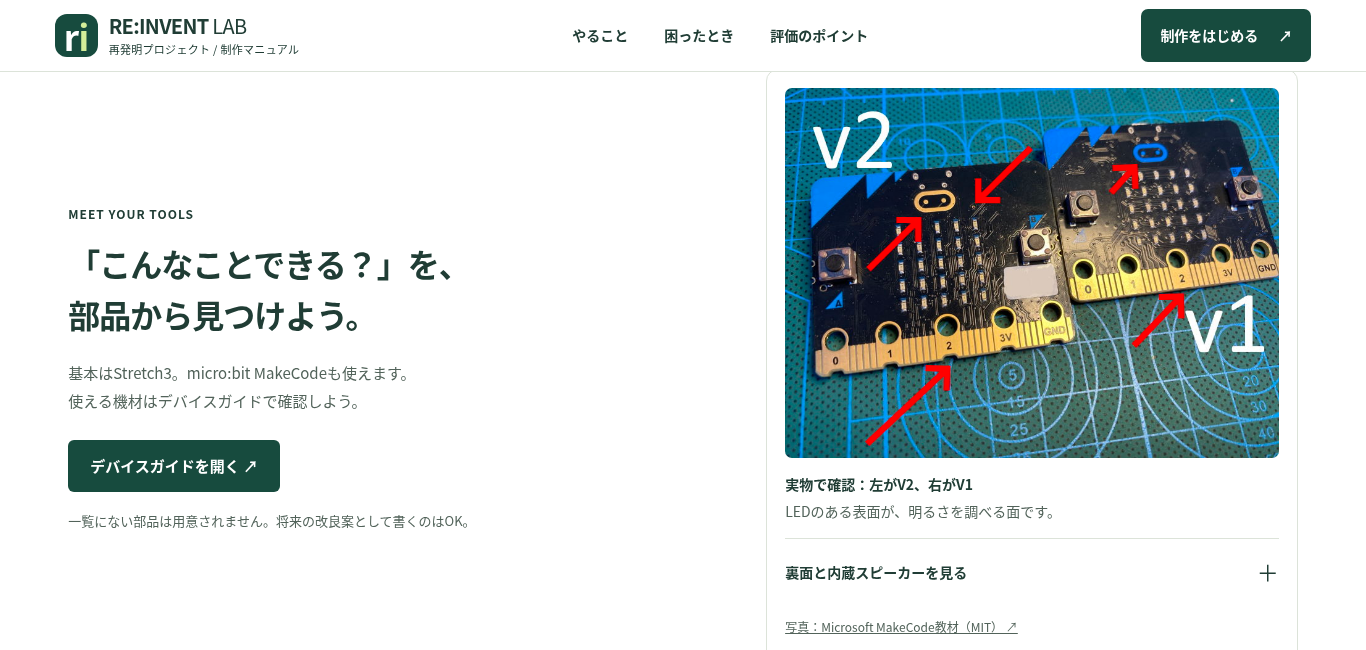
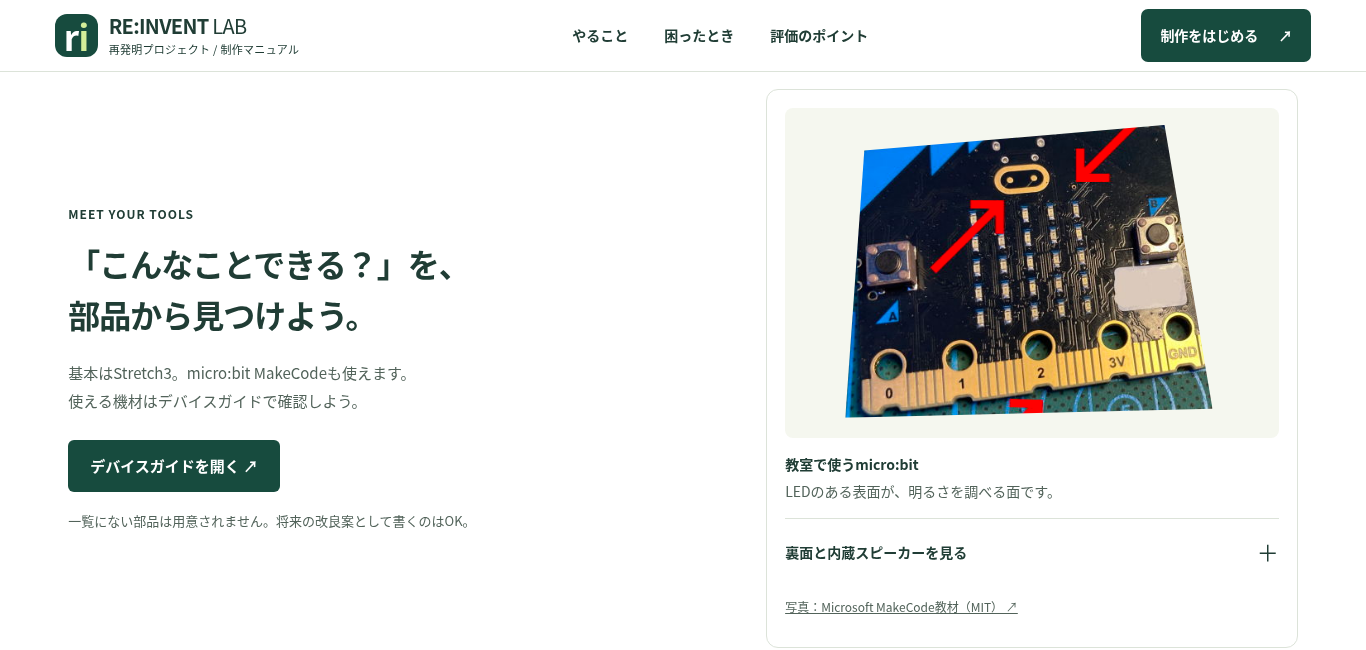
Show only classroom microbit board and remove version labels

diff --git a/index.html b/index.html
@@ -10,7 +10,7 @@
 <button class="step-card" data-step="3"><div class="card-top"><span>STEP 04</span><span>↗</span></div><img class="step-illustration" src="assets/step-improve.png" alt="条件を変えて試し、結果を記録する" loading="lazy"><h3>試して、よくする</h3><p>本当に困りごとを解決できる？<br>結果を比べ、改良しよう。</p><div class="card-footer">残すもの <b>動作動画・実験の記録</b></div></button>
 <button class="step-card" data-step="4"><div class="card-top"><span>STEP 05</span><span>↗</span></div><img class="step-illustration" src="assets/step-analyze.png" alt="試作品の結果や部品代を比較して考察する" loading="lazy"><h3>製品の価値を整理する</h3><p>役立つ理由と、残る課題は？<br>部品代も確かめよう。</p><div class="card-footer">残すもの <b>考察・費用の概算</b></div></button>
 <button class="step-card" data-step="5"><div class="card-top"><span>STEP 06</span><span>↗</span></div><img class="step-illustration" src="assets/step-present.png" alt="図と動作動画を使って製品を発表する" loading="lazy"><h3>伝わる発表にする</h3><p>どんな人の、何が変わる？<br>図と動画で製品を伝えよう。</p><div class="card-footer">残すもの <b>発表スライド</b></div></button></div></section>
-<section class="device-section section"><div><div class="eyebrow">MEET YOUR TOOLS</div><h2>「こんなことできる？」を、<br>部品から見つけよう。</h2><p>基本はStretch3。micro:bit MakeCodeも使えます。<br>使える機材はデバイスガイドで確認しよう。</p><a class="button primary" href="https://playa2021git.github.io/reinvent-device-guide/" target="_blank" rel="noopener">デバイスガイドを開く ↗</a><small class="device-note">一覧にない部品は用意されません。将来の改良案として書くのはOK。</small></div><figure class="real-device"><img src="assets/microbit-v2-front.jpg" alt="micro:bitの実物比較写真。左がV2、右がV1。表面に5×5のLEDとA・Bボタンがある" loading="lazy"><figcaption><b>実物で確認：左がV2、右がV1</b><span>LEDのある表面が、明るさを調べる面です。</span></figcaption><details><summary>裏面と内蔵スピーカーを見る<span>＋</span></summary><img src="assets/microbit-v2-back.jpg" alt="裏面の実物比較写真。左のV2には中央の銀色の内蔵スピーカーがあり、右のV1にはない" loading="lazy"><p>V2には内蔵スピーカーがあります。引き出し警報の例はV2を使います。表面のLEDを上向きに置きますが、音が出る部品は裏面です。</p></details><a class="photo-credit" href="https://github.com/microsoft/pxt-microbit/tree/master/docs/static/v2" target="_blank" rel="noopener">写真：Microsoft MakeCode教材（MIT） ↗</a></figure></section>
+<section class="device-section section"><div><div class="eyebrow">MEET YOUR TOOLS</div><h2>「こんなことできる？」を、<br>部品から見つけよう。</h2><p>基本はStretch3。micro:bit MakeCodeも使えます。<br>使える機材はデバイスガイドで確認しよう。</p><a class="button primary" href="https://playa2021git.github.io/reinvent-device-guide/" target="_blank" rel="noopener">デバイスガイドを開く ↗</a><small class="device-note">一覧にない部品は用意されません。将来の改良案として書くのはOK。</small></div><figure class="real-device"><svg class="board-photo" viewBox="22 112 465 370" role="img" aria-labelledby="front-photo-title"><title id="front-photo-title">教室で使うmicro:bitの表面。5×5のLED、A・Bボタン、金色のタッチロゴ</title><defs><clipPath id="front-board-crop"><polygon points="52,149 415,118 473,461 29,472"/></clipPath></defs><image href="assets/microbit-v2-front.jpg" width="800" height="600" clip-path="url(#front-board-crop)"/></svg><figcaption><b>教室で使うmicro:bit</b><span>LEDのある表面が、明るさを調べる面です。</span></figcaption><details><summary>裏面と内蔵スピーカーを見る<span>＋</span></summary><svg class="board-photo" viewBox="29 177 436 389" role="img" aria-labelledby="back-photo-title"><title id="back-photo-title">micro:bitの裏面。中央に銀色の内蔵スピーカーがある</title><defs><clipPath id="back-board-crop"><polygon points="51,219 385,183 452,506 73,554"/></clipPath></defs><image href="assets/microbit-v2-back.jpg" width="800" height="600" clip-path="url(#back-board-crop)"/></svg><p>本体には内蔵スピーカーがあります。引き出し警報の例は、このスピーカーで音を鳴らします。表面のLEDを上向きに置きますが、音が出る部品は裏面です。</p></details><a class="photo-credit" href="https://github.com/microsoft/pxt-microbit/tree/master/docs/static/v2" target="_blank" rel="noopener">写真：Microsoft MakeCode教材（MIT） ↗</a></figure></section>
 
 <section id="workbench" class="section workbench">
 <div class="section-heading"><div><div class="eyebrow">FROM AN IDEA TO A WORKING PRODUCT</div><h2>製品のしくみを、ひとつずつ。</h2></div><p>「何を感じて、どう動く？」を決めると、<br>必要な部品とプログラムが見えてきます。</p></div>
@@ -21,7 +21,7 @@
 </section>
 <section id="drawing" class="section drawing-section"><div class="section-heading"><div><div class="eyebrow">SHOW THE IDEA, NOT JUST THE SHAPE</div><h2>絵のうまさより、「使い方」が伝わるか。</h2></div><p>同じ製品でも、描く情報で伝わり方が変わります。<br>手描きでも、AIで作っても、確認することは同じ。</p></div>
 <div class="drawing-grid"><article class="drawing-example unclear"><div class="drawing-title"><span>情報が足りない例</span><b>これ、何に使うの？</b></div><svg viewBox="0 0 500 220" role="img" aria-label="箱と光だけで、設置場所や使い方が不明な製品図"><rect x="177" y="58" width="145" height="108" rx="20" fill="#c9d5c7" stroke="#496350" stroke-width="3"/><circle cx="250" cy="108" r="20" fill="#d6ed9c"/><path d="M195 170h110" stroke="#496350" stroke-width="3"/><text x="352" y="75" font-size="38" fill="#7c897a">?</text><text x="110" y="150" font-size="26" fill="#7c897a">?</text><text x="250" y="205" text-anchor="middle" font-size="16" fill="#52635a">「便利なお知らせ装置」</text></svg><ul><li>誰が・どこで使うか分からない</li><li>何をきっかけに、どう反応するか不明</li><li>大きさや電源が分からない</li></ul></article>
-<article class="drawing-example clear"><div class="drawing-title"><span>伝わる例</span><b>弟が引き出しを開けると、警報音！</b></div><img class="alarm-scene" src="assets/drawer-alarm.png" alt="お姉ちゃんが不在の明るい部屋で、私服の小学生の弟が立ったまま、文房具と漫画の入った学習机の引き出しを勝手に開ける。引き出しの中にLED・明るさセンサ面を上向きに置いたmicro:bitが光を検知し、本体から警報音が鳴る場面"><div class="scene-sequence"><span>① 明るい部屋で弟が開ける</span><span>→</span><span>② 中のmicro:bitが光を検知</span><span>→</span><span>③ 本体から警報音</span></div><ul><li>誰の、どんな困りごとを解決するかが見える</li><li>製品を使う場所と、反応するきっかけが見える</li><li>勝手に開けると警報音が鳴ることが見える</li></ul></article></div><p class="example-caption">製品の使用場面を伝える完成イメージです。実物の動作を証明する動画や、配線図とは別です。大きさ・電源・接続は、別の図や注釈で補おう。</p><details class="scene-note"><summary>この製品を実際につくるなら？<span>＋</span></summary><p>この例は内蔵スピーカーのあるmicro:bit V2を想定しています。LED・明るさセンサ面を上にして引き出しの中に置き、閉じたときと、室内灯の下で開けたときの明るさを比べ、反応する条件を決めます。暗い部屋では検知できない場合があります。本体の警報音と音量を確認し、先生や家族と相談して試そう。「開いたことを知らせる」製品であり、開けること自体を防ぐ製品ではありません。</p></details><div class="drawing-check"><b>絵を見直す5つの質問</b><span>誰が使う？</span><span>どこに置く？</span><span>何をすると？</span><span>どう反応する？</span><span>大きさ・電源は？</span></div></section>
+<article class="drawing-example clear"><div class="drawing-title"><span>伝わる例</span><b>弟が引き出しを開けると、警報音！</b></div><img class="alarm-scene" src="assets/drawer-alarm.png" alt="お姉ちゃんが不在の明るい部屋で、私服の小学生の弟が立ったまま、文房具と漫画の入った学習机の引き出しを勝手に開ける。引き出しの中にLED・明るさセンサ面を上向きに置いたmicro:bitが光を検知し、本体から警報音が鳴る場面"><div class="scene-sequence"><span>① 明るい部屋で弟が開ける</span><span>→</span><span>② 中のmicro:bitが光を検知</span><span>→</span><span>③ 本体から警報音</span></div><ul><li>誰の、どんな困りごとを解決するかが見える</li><li>製品を使う場所と、反応するきっかけが見える</li><li>勝手に開けると警報音が鳴ることが見える</li></ul></article></div><p class="example-caption">製品の使用場面を伝える完成イメージです。実物の動作を証明する動画や、配線図とは別です。大きさ・電源・接続は、別の図や注釈で補おう。</p><details class="scene-note"><summary>この製品を実際につくるなら？<span>＋</span></summary><p>この例はmicro:bitの内蔵スピーカーを使います。LED・明るさセンサ面を上にして引き出しの中に置き、閉じたときと、室内灯の下で開けたときの明るさを比べ、反応する条件を決めます。暗い部屋では検知できない場合があります。本体の警報音と音量を確認し、先生や家族と相談して試そう。「開いたことを知らせる」製品であり、開けること自体を防ぐ製品ではありません。</p></details><div class="drawing-check"><b>絵を見直す5つの質問</b><span>誰が使う？</span><span>どこに置く？</span><span>何をすると？</span><span>どう反応する？</span><span>大きさ・電源は？</span></div></section>
 <section id="testing" class="section testing-section"><div class="section-heading"><div><div class="eyebrow">TRY → RECORD → IMPROVE</div><h2>「動いた！」を、確かな証拠に。</h2></div><p>動画と記録は、きみの取り組みを伝える材料。<br>成功したことも、まだできないことも残そう。</p></div><div class="testing-grid"><article><span class="number-chip">01</span><h3>成功の条件を決める</h3><p>「何をしたら、どう動くか」を先に書く。</p><blockquote>Class「持ち物あり」の画像を映すと、micro:bitに✓を表示する。「なし」なら×に変わる。</blockquote></article><article><span class="number-chip">02</span><h3>条件を変えて試す</h3><p>正しく動いたときだけでなく、違う場面も確かめる。</p><blockquote>背景が変わったら？ 少し暗かったら？ 物の向きが変わったら？</blockquote></article><article><span class="number-chip">03</span><h3>結果から次を考える</h3><p>何が起きたかを記録し、原因と改善を考える。</p><blockquote>背景が変わると誤認識した。背景の特徴を覚えた可能性がある。違う背景でも学習し直して確かめる。</blockquote></article></div>
 <details class="record-example"><summary>実験記録の見本を見る<span>＋</span></summary><div class="table-scroll"><table><caption>架空の記録例：結果を見て、考えをどう進めるか</caption><thead><tr><th>試した条件</th><th>結果</th><th>考察・次にすること</th></tr></thead><tbody><tr><td>学習時と同じ背景で2つのClassを映す</td><td>各5回のうち、それぞれ5回、対応する表示に変わった</td><td>この条件では入力と出力が連動した。背景を変えて試す</td></tr><tr><td>別の背景で「持ち物あり」を映す</td><td>5回中2回、「なし」と判定した</td><td>背景の影響かもしれない。複数の背景で学習し直す</td></tr><tr><td>学習し直して、別の背景で再確認</td><td>5回中5回、✓を表示した</td><td>今回の条件では改善。暗い場所ではまだ未確認</td></tr></tbody></table></div><p>回数は例です。成功回数だけで評価は決まりません。条件・結果・判断がつながっていることが大切です。</p></details>
 <div class="video-tip"><span class="video-symbol">▷</span><div><h3>動画には「きっかけ」と「反応」を入れよう。</h3><p>何をカメラやセンサに見せたか → 判定や値 → micro:bitがどう反応したか。必要なら画面録画と実物の映像を組み合わせます。個人の顔や名前を映さなくても説明できます。</p></div></div></section>

diff --git a/style.css b/style.css
@@ -100,3 +100,4 @@
 .alarm-scene{display:block;width:100%;height:auto;aspect-ratio:3/2;object-fit:contain;border-radius:9px;margin:16px 0;background:#e8eee9}.scene-sequence{display:flex;flex-wrap:wrap;align-items:center;gap:6px;font-size:13px;font-weight:700;color:#244d39}.scene-sequence span:nth-child(2n+1){background:#e1edcf;padding:6px 9px;border-radius:5px}.scene-note{margin-top:14px;border-bottom:1px solid var(--line)}.scene-note p{font-size:15px}
 .step-illustration{display:block;width:100%;height:170px;object-fit:cover;border-radius:8px;margin-top:14px;background:#edf2e5}.dialog-illustration{display:block;width:100%;max-height:260px;object-fit:contain;background:#f5f7ef;border-radius:9px;margin:18px 0}.real-device{margin:0;border:1px solid var(--line);border-radius:12px;padding:18px;background:white}.real-device>img,.real-device details img{display:block;width:100%;height:auto;border-radius:7px}.real-device figcaption{font-size:14px;margin-top:13px}.real-device figcaption span{display:block;color:var(--muted)}.real-device summary{font-size:14px;min-height:48px;padding:12px 0}.real-device details p{font-size:14px;margin:12px 0}.photo-credit{font-size:12px;color:var(--muted);display:inline-flex;align-items:center;min-height:44px;text-decoration:underline}.real-device details{border-top:1px solid var(--line);margin-top:14px}@media(max-width:650px){.step-illustration{height:100px}}
 dialog p.illustration-note{font-size:12px;color:var(--muted);margin:-8px 0 16px}
+.real-device .board-photo{display:block;width:100%;height:auto;max-height:330px;background:#f5f7ef;border-radius:8px;padding:12px}

diff --git a/README.md b/README.md
@@ -44,4 +44,4 @@ Classの判定だけでなくmicro:bitの出力までを動作確認の対象に
 生成イラストは完成イメージであり、実装済みの機能や正しい配線を保証するものではありません。
 
 ## 実物資料と説明イラスト
-Microsoft MakeCode教材のmicro:bit実物比較写真を掲載し、V2とV1、表裏とスピーカーを説明しています。出典とライセンスはassets/SOURCES.mdを参照。制作の6段階にはChatGPT Imageの作業イメージを掲載。配線・コードの正解を示す図とは区別しています。
+Microsoft MakeCode教材の実物写真から教室で使うmicro:bitのみを表示し、表裏とスピーカーを説明しています。出典とライセンスはassets/SOURCES.mdを参照。制作の6段階にはChatGPT Imageの作業イメージを掲載。配線・コードの正解を示す図とは区別しています。

diff --git a/assets/SOURCES.md b/assets/SOURCES.md
@@ -7,7 +7,7 @@
 - `microbit-v2-back.jpg`: `docs/static/v2/back.jpg`
 - `microbit-v2.jpg`: `docs/static/mb/device-v2.jpg`
 - Copyright (c) Microsoft Corporation. MIT License, see MICROSOFT-PXT-LICENSE.txt.
-- 表裏の比較写真は左がV2、右がV1です。
+- 元画像は機種比較写真です。画面上ではSVGのクリッピングで教室の機種だけを表示し、比較対象とバージョン表記は表示していません。元画像自体は変更していません。
 
 ## 制作場面・完成イメージ
 ChatGPT Imageで生成。配線図や実際に動作した証拠を示すものではありません。
